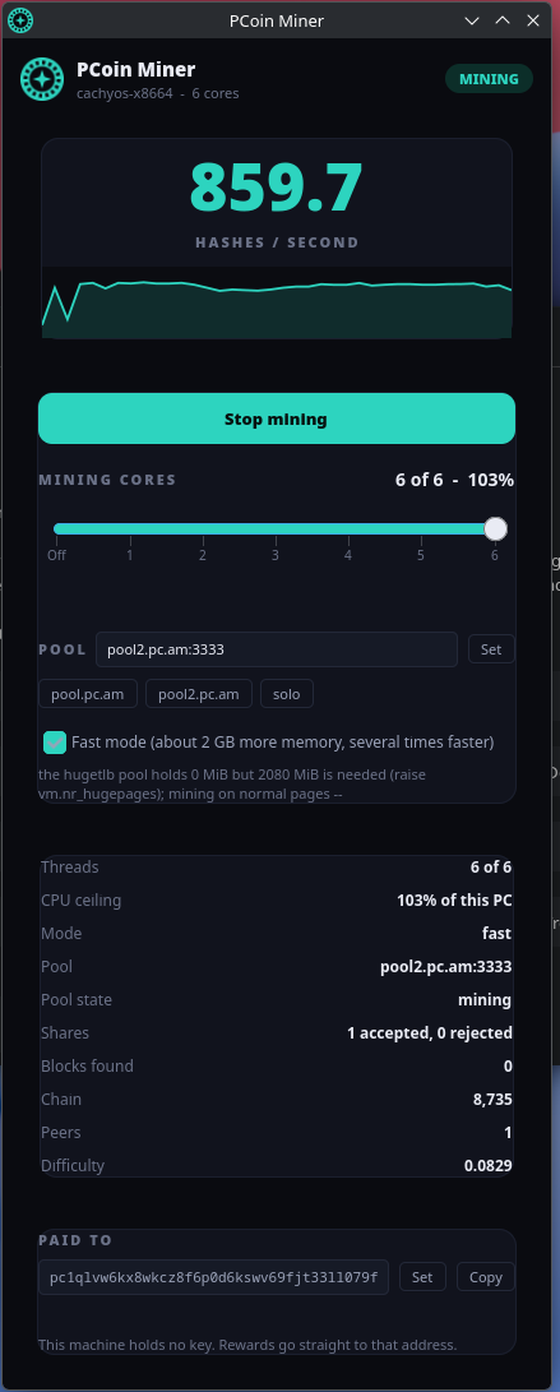
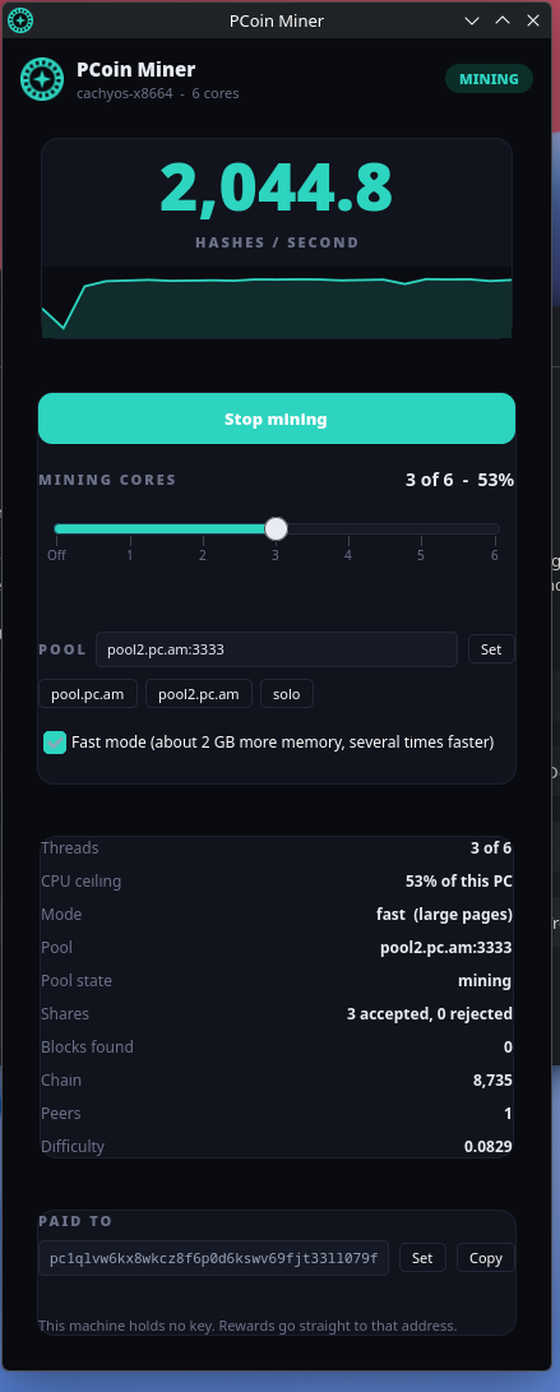
linux miner: Windows-tray parity, large pages, and the numbers that changed
The desktop app was missing half the controls the Windows tray has. Adds, and
proves headlessly before touching the UI:

  - Start / Stop mining. There was only "Off" at position 0 of the cores
    slider, which is neither discoverable nor what Windows does.
  - The payout address, editable. THE NODE validates it before it is accepted:
    a bad pc1, a Bitcoin address and an empty string are all refused, because
    rewards paid to a mistyped address go to a key nobody has.
  - A fast-mode switch. It is a NODE setting, so it restarts the node itself,
    and it is written to pcoin.conf rather than the systemd drop-in -- the app
    rewrites that drop-in on every core change and would silently lose it.
  - Mode and Difficulty rows.

fast_requested() reads the config (intent) while "mode" reads the node
(reality); they are displayed as two different things on purpose, because
during a dataset build the honest answer is "asked for, not yet in force".

There is still NO local key on Linux, deliberately. The Windows tray owns a
wallet, mines into its own address and signs a transaction sweeping to yours --
that is what "forwarding" means there. Linux runs disablewallet=1 and pays a
bare address directly, so there is no hop, no key on the machine and nothing to
back up.

LARGE PAGES, and they change the answer. Reserving vm.nr_hugepages for the
2080 MiB dataset moved the best core count from 2 to 3 and the peak from
[…]

diff --git a/site/mining/index.html b/site/mining/index.html
@@ -158,7 +158,7 @@
 
         <h2>The terminal miner — any distribution</h2>
         <figure class="shot">
-          <img src="/img/miner-linux-terminal.png" alt="pcoin-miner running in a terminal at 1.48 kH/s" width="900" height="497" loading="lazy">
+          <img src="/img/miner-linux-terminal.png" alt="pcoin-miner running in a terminal in fast mode" width="900" height="497" loading="lazy">
           <figcaption><code>pcoin-miner</code> — live in a terminal. Works over SSH on a headless server.</figcaption>
         </figure>
         <p class="muted">A single Python file, standard library only, so it runs anywhere Python 3
@@ -179,7 +179,7 @@ pcoin-miner --address pc1YOURADDRESS --pool pool2.pc.am:3333 --cores auto</code>
 
         <h2>The desktop app</h2>
         <figure class="shot">
-          <img src="/img/miner-linux-gui.png" alt="PCoin Miner desktop app on Linux showing 1,505 H/s" width="560" height="880" loading="lazy">
+          <img src="/img/miner-linux-gui.png" alt="PCoin Miner desktop app on Linux showing 2,044 H/s" width="560" height="880" loading="lazy">
           <figcaption>The desktop app on KDE — tray icon, live graph, cores slider and pool picker.</figcaption>
         </figure>
         <p class="muted">GTK4 through PyGObject, which every mainstream desktop already ships. It
@@ -242,16 +242,29 @@ rm -f ~/.local/bin/pcoin-miner ~/.local/share/pcoin/bin/pcoin-miner-gui</code></
     <p class="muted">Measured on real machines, in fast mode, at the settings shown:</p>
     <div class="grid">
       <div class="stat"><b>6.24 kH/s</b><span>i9-10900X · 10 of 20 cores · Windows</span></div>
-      <div class="stat"><b>1.43 kH/s</b><span>i5-9600K · 2 of 6 cores · Linux</span></div>
+      <div class="stat"><b>2.04 kH/s</b><span>i5-9600K · 3 of 6 cores · Linux</span></div>
       <div class="stat"><b>26 H/s</b><span>Galaxy Note 9 · Android</span></div>
     </div>
 
     <h2>More cores is not always faster</h2>
     <p class="muted">RandomX works out of a large table in memory, and past a point extra threads
-    spend more time waiting for memory than hashing. On the Linux machine above, two cores beat
-    six by <strong>45%</strong> — the whole machine mining flat out produced <em>less</em> than a
-    third of it. So do not assume: the terminal miner's <code>--cores auto</code> measures every
-    setting and picks the winner, and the desktop and Windows apps let you try by hand.</p>
+    spend more time waiting for memory than hashing. On the Linux machine above, <strong>three</strong>
+    cores beat all six by <strong>92%</strong> — half the machine produced nearly twice what the
+    whole machine did. So do not assume: the terminal miner's <code>--cores auto</code> measures
+    every setting and picks the winner, and the desktop and Windows apps let you try by hand.</p>
+
+    <h2>Large pages are worth a third again</h2>
+    <p class="muted">Fast mode keeps a 2080&nbsp;MiB table in memory, and on ordinary 4&nbsp;KiB
+    pages the processor spends much of its time translating addresses for it. Reserving
+    <em>huge</em> pages for that table is what lets extra cores keep adding hash rate instead of
+    evicting each other. Measured on the machine above, it moved the best setting from two cores
+    to three and the peak from <strong>1,433 to 1,969&nbsp;H/s</strong>:</p>
+<pre><code>echo 'vm.nr_hugepages = 1060' | sudo tee /etc/sysctl.d/99-pcoin-hugepages.conf
+sudo sysctl --system
+sudo systemctl restart pcoind      # or: systemctl --user restart pcoind</code></pre>
+    <p class="muted">1060 pages is 2120&nbsp;MiB: 1040 for the table plus one per mining thread.
+    That memory is reserved away from everything else, so size it deliberately. The node reports
+    <code>largepages</code> and, when it cannot get them, exactly what it wanted.</p>
 
     <h2>Solo or pool</h2>
     <p class="muted"><strong>Solo</strong> means you build your own blocks and keep the entire
